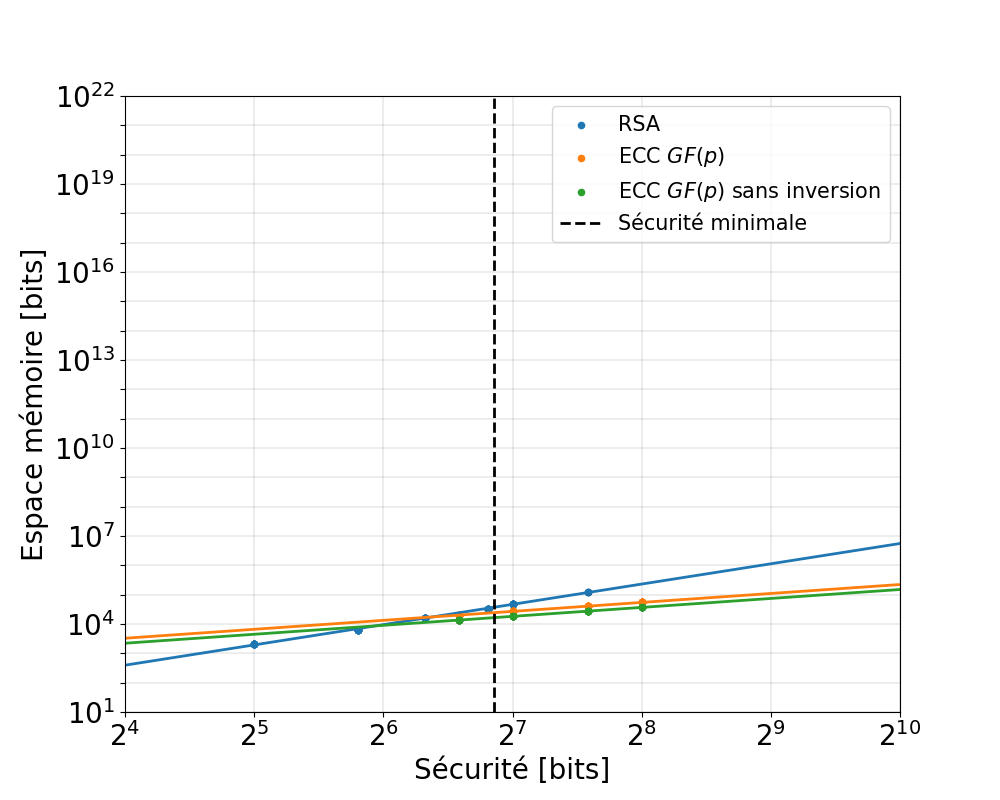
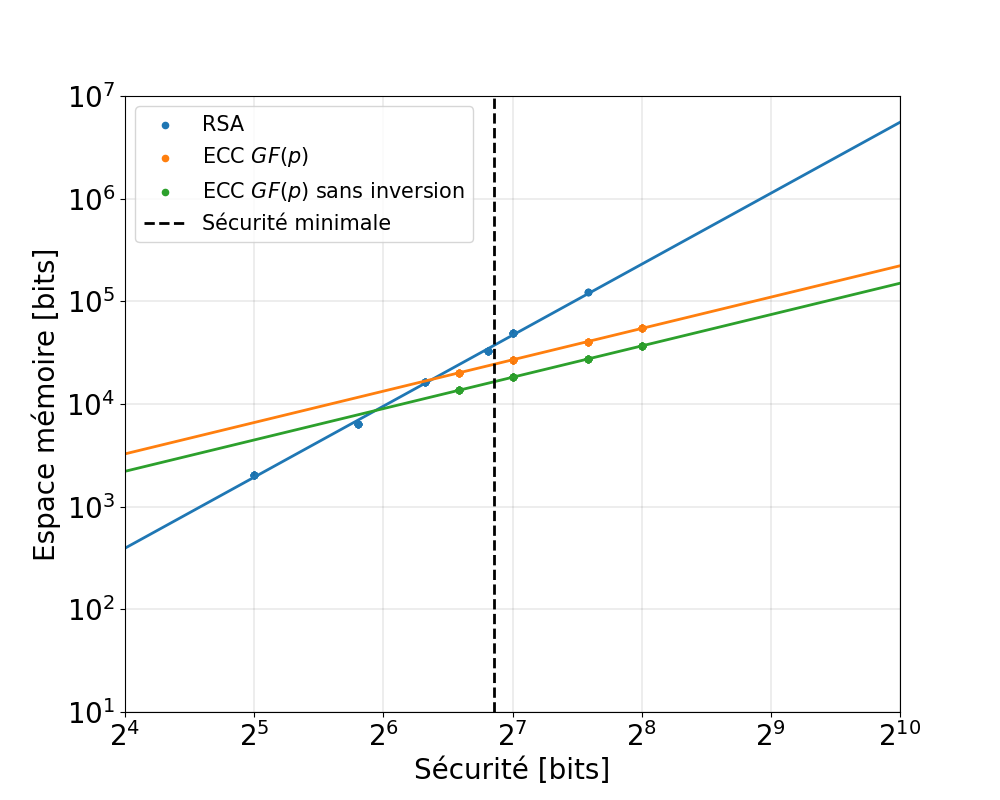
wip

diff --git a/python_crypto/Essai_figures/result_space_decryption.py b/python_crypto/Essai_figures/result_space_decryption.py
@@ -182,7 +182,7 @@ if __name__ == "__main__":
     x_start = 4
     x_end = 10
     y_start = 1
-    y_end = 22
+    y_end = 7
     base = 2
     fontsize = 20
     linewidth = 2

diff --git a/python_crypto/Essai_figures/result_space_encryption.py b/python_crypto/Essai_figures/result_space_encryption.py
@@ -182,7 +182,7 @@ if __name__ == "__main__":
     x_start = 4
     x_end = 10
     y_start = 1
-    y_end = 22
+    y_end = 7
     base = 2
     fontsize = 20
     linewidth = 2

diff --git a/python_crypto/Essai_figures/result_space_keygen.py b/python_crypto/Essai_figures/result_space_keygen.py
@@ -182,7 +182,7 @@ if __name__ == "__main__":
     x_start = 4
     x_end = 10
     y_start = 1
-    y_end = 22
+    y_end = 7
     base = 2
     fontsize = 20
     linewidth = 2
